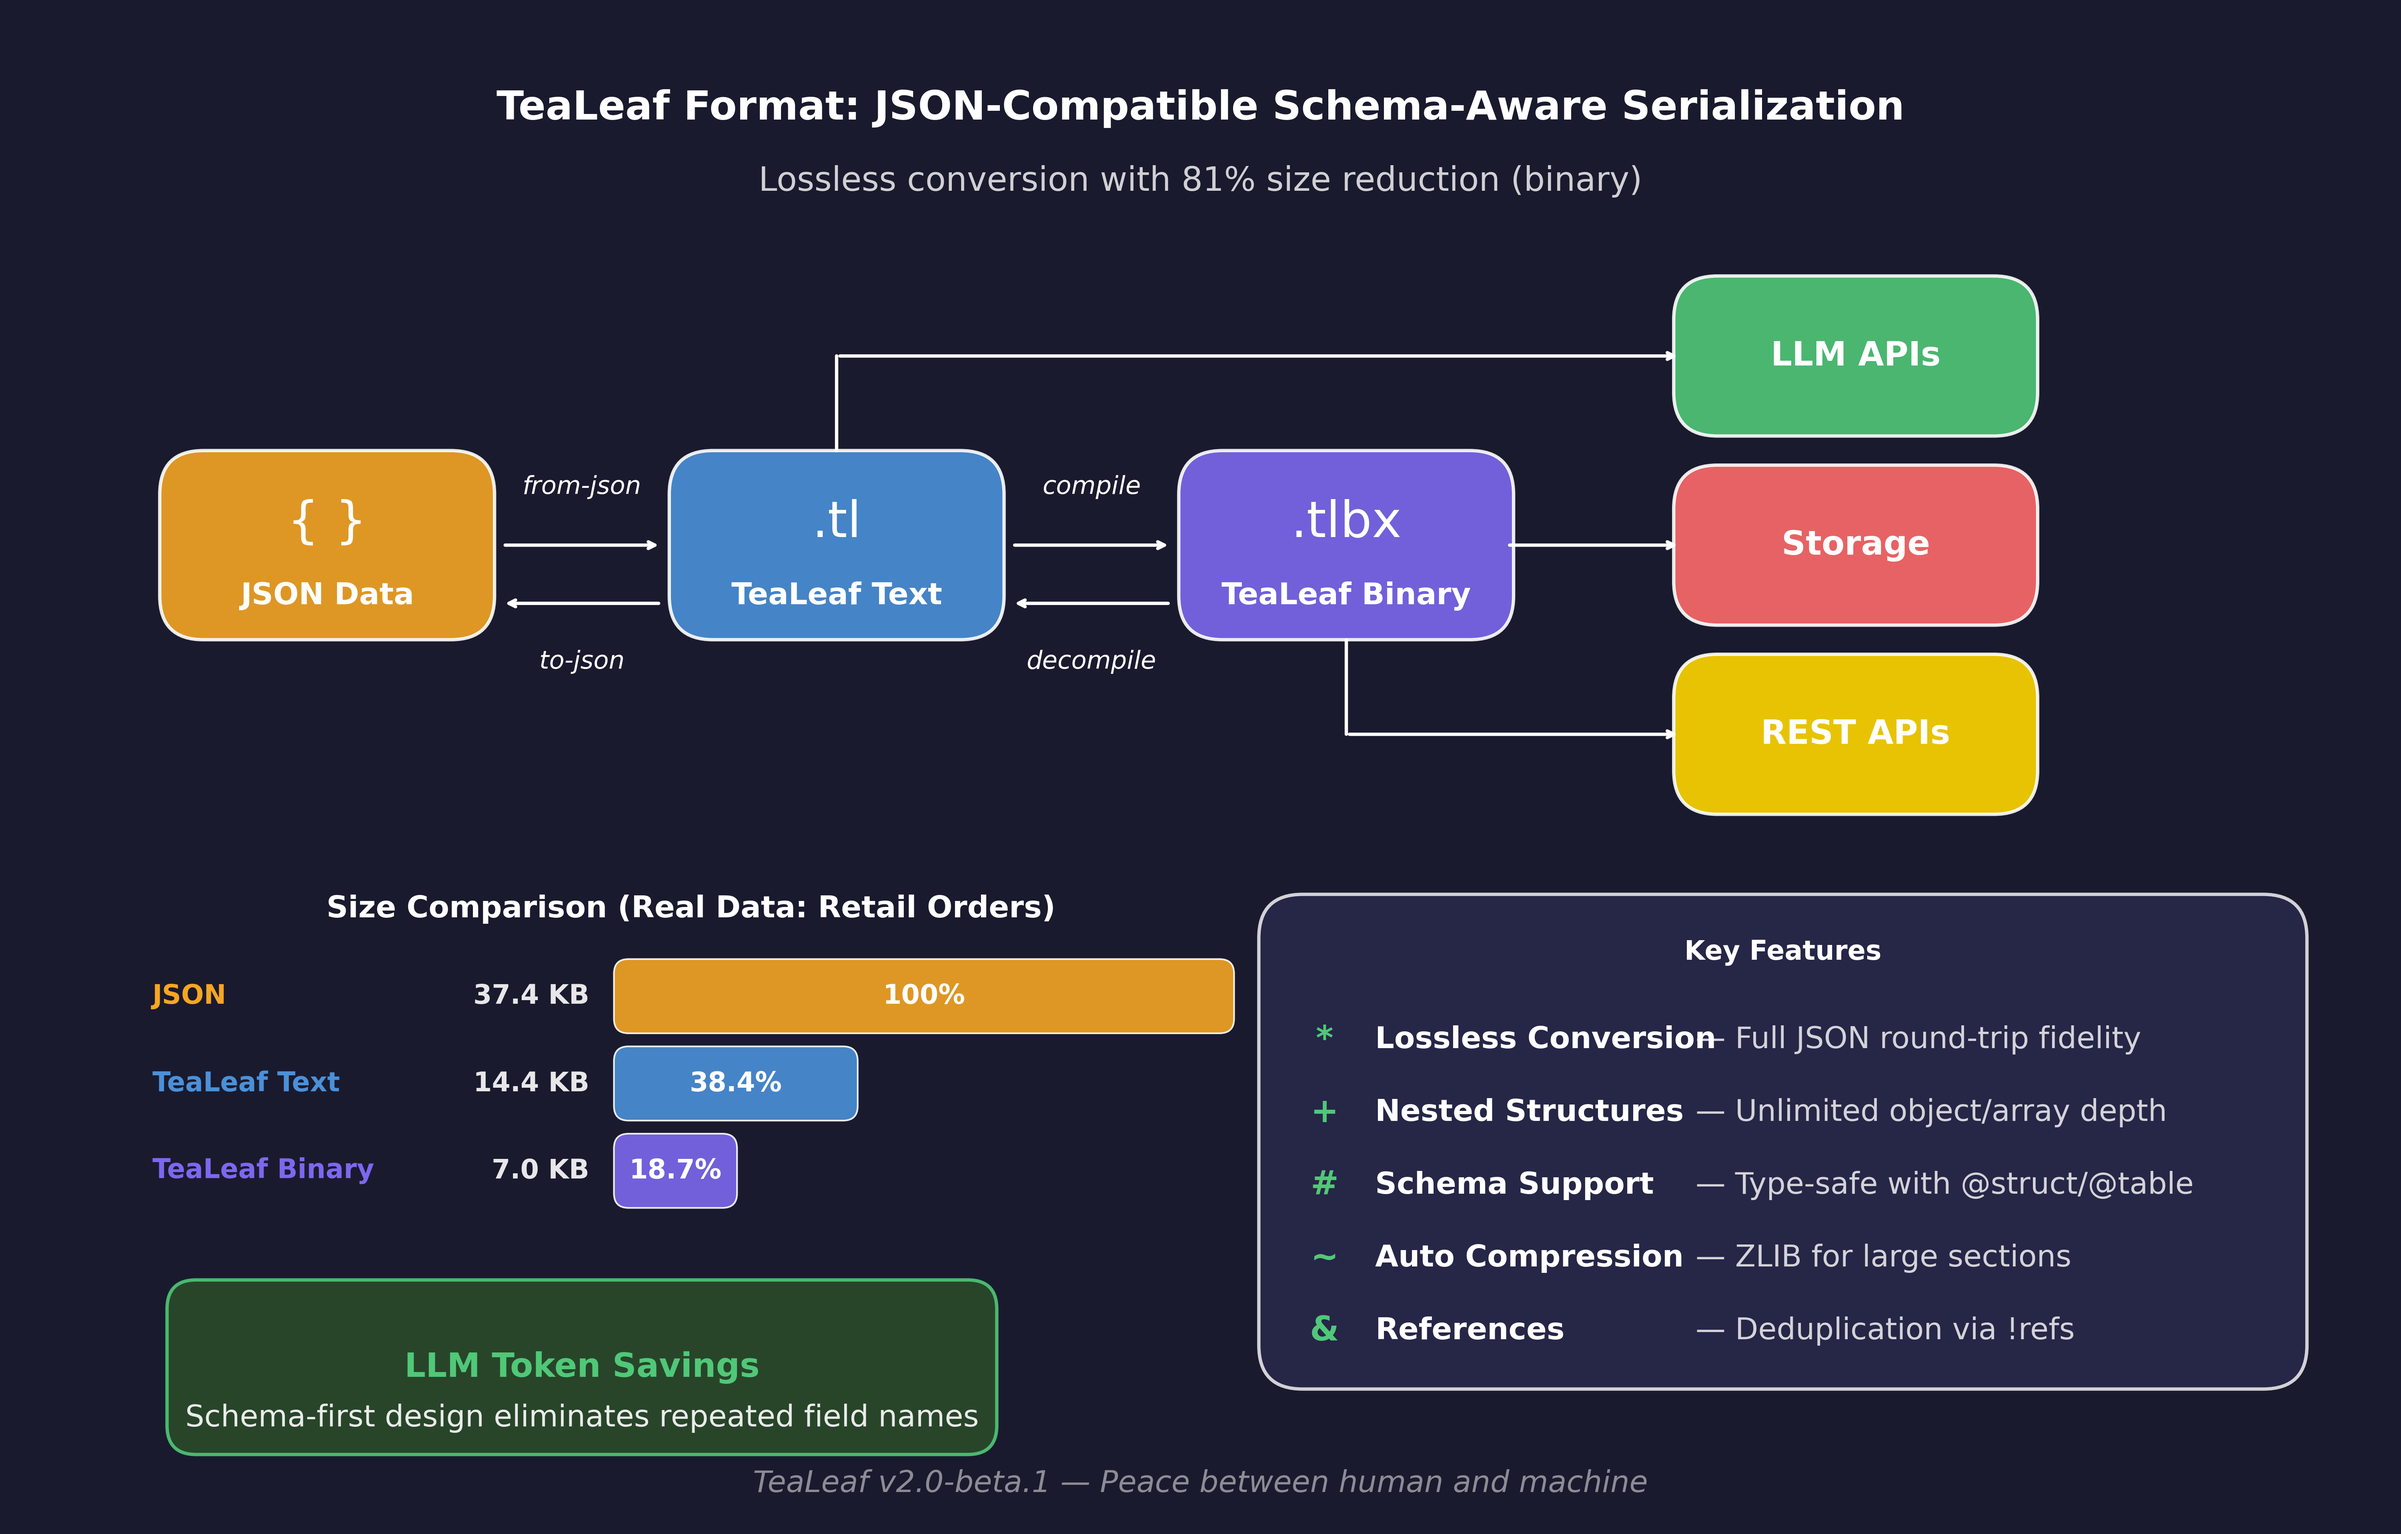
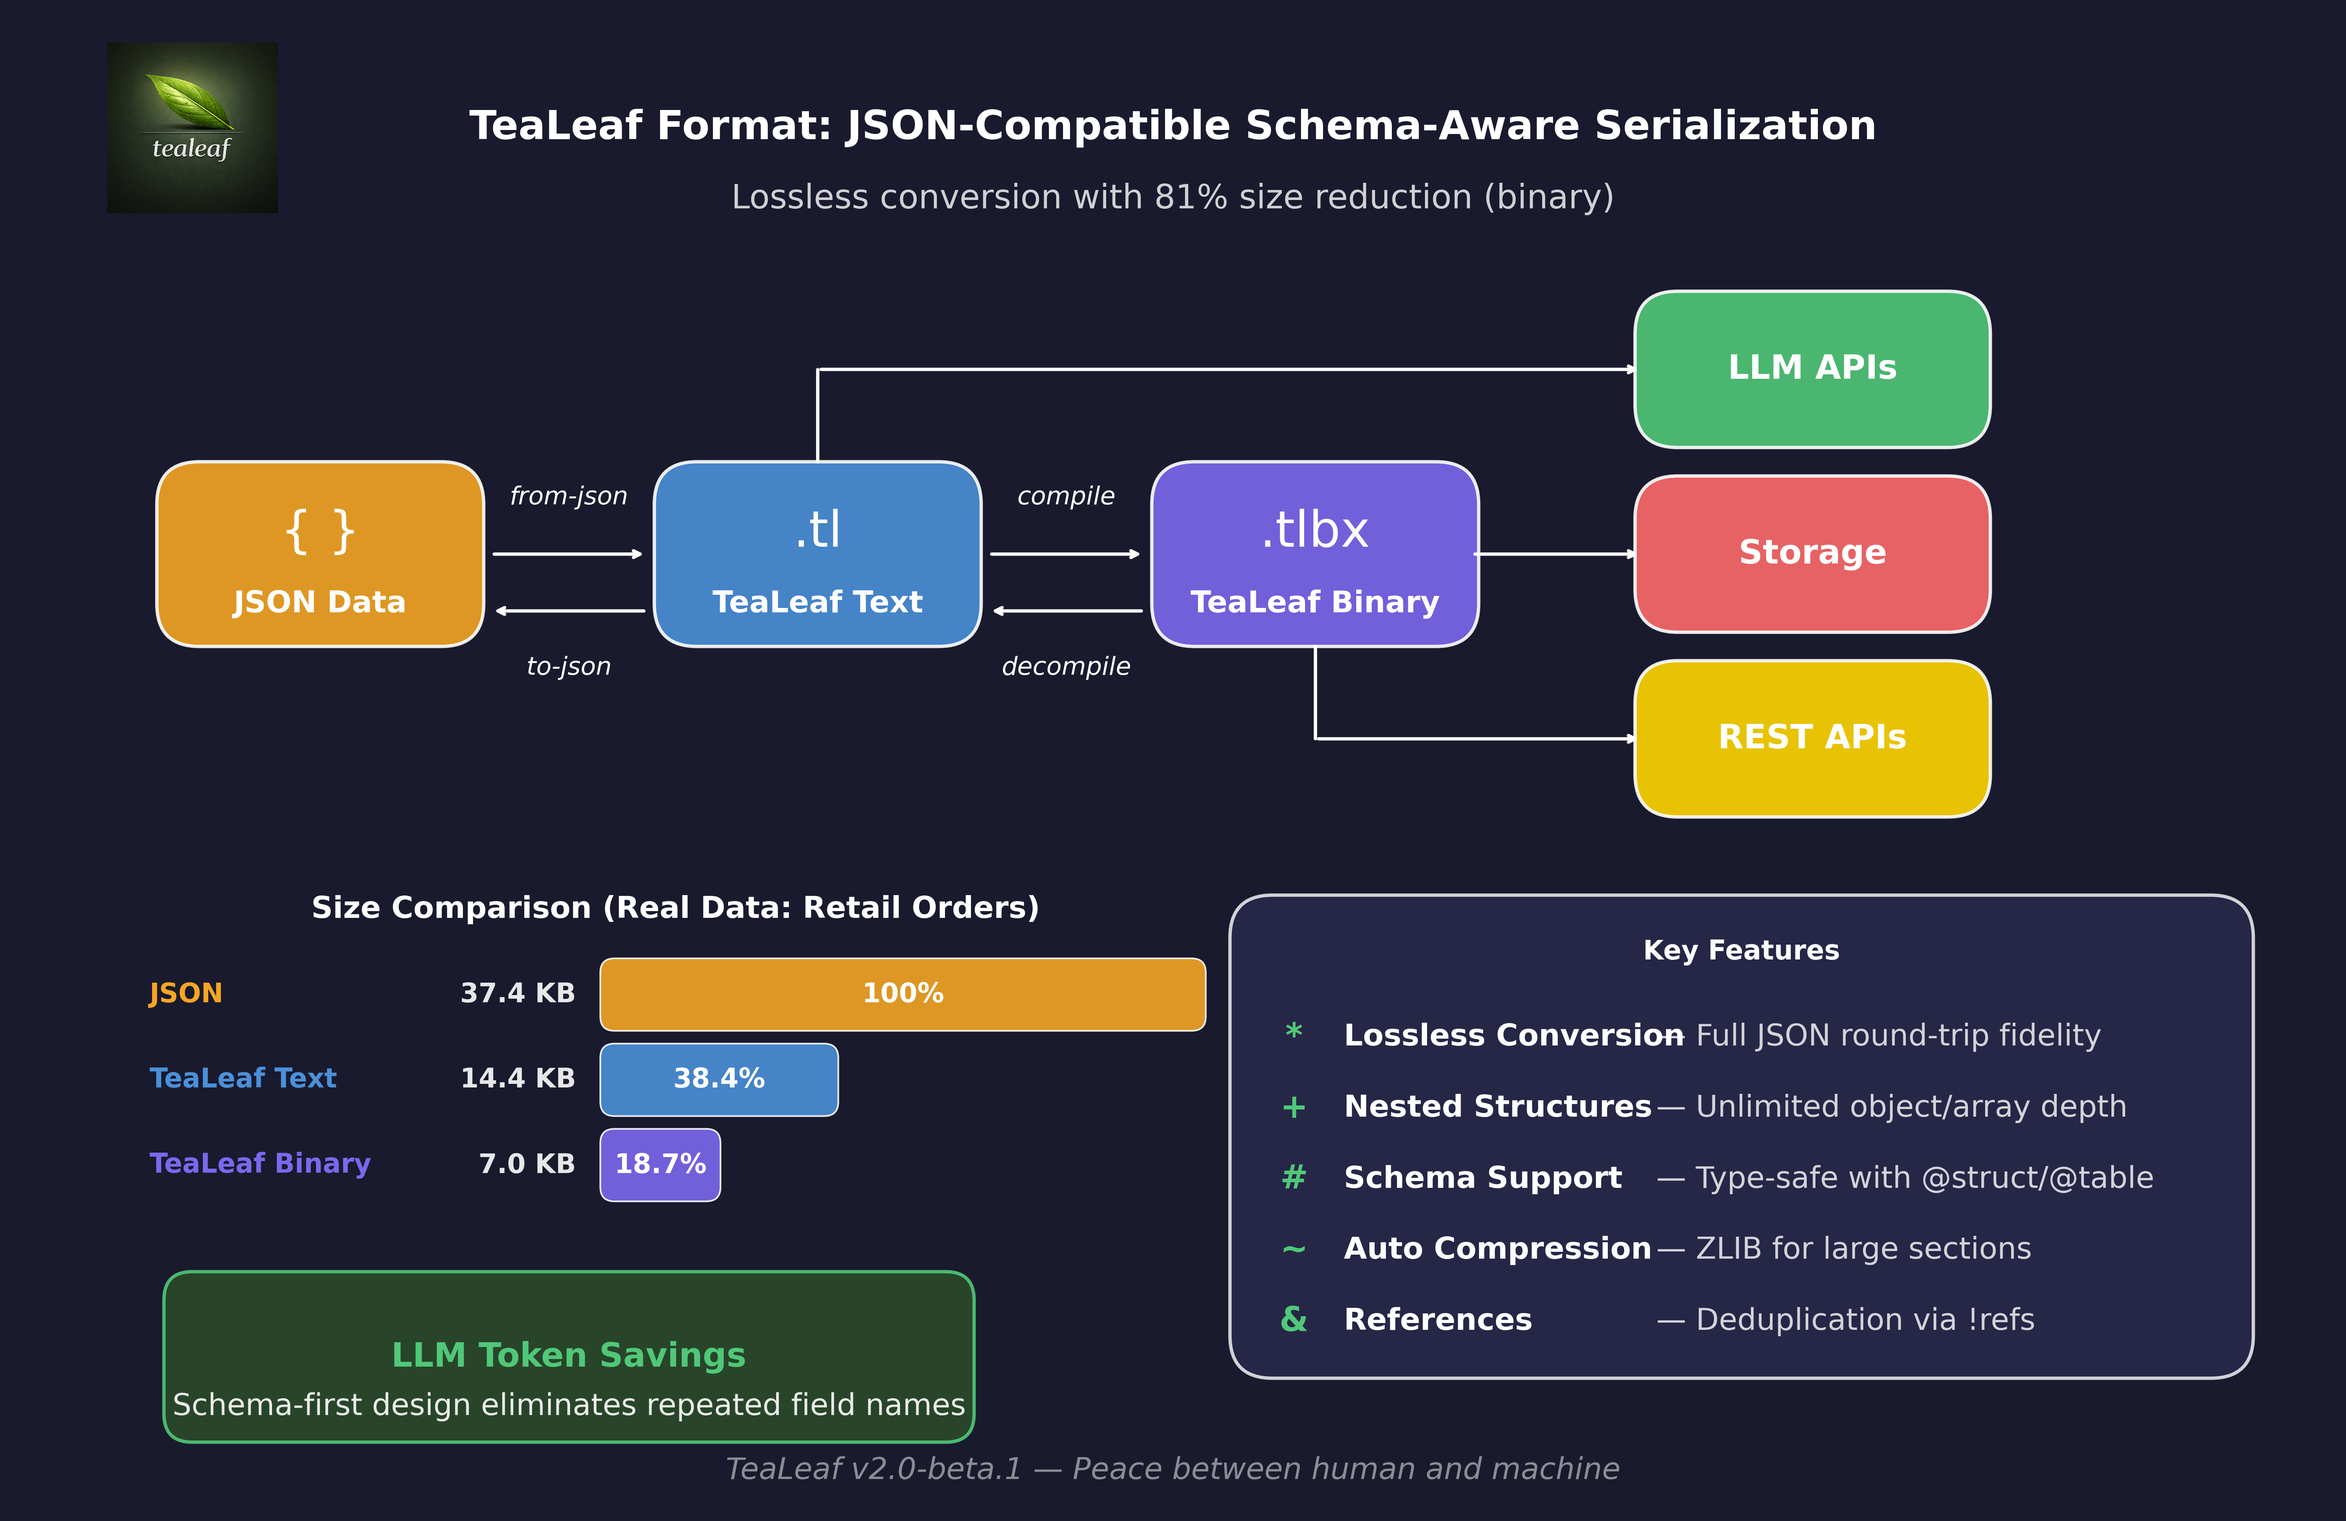
release workflow and some branding updates.

diff --git a/docs/generate_workflow_diagram.py b/docs/generate_workflow_diagram.py
@@ -6,6 +6,8 @@ Creates a PNG showing JSON → TeaLeaf conversion and distribution workflow
 import matplotlib.pyplot as plt
 import matplotlib.patches as mpatches
 from matplotlib.patches import FancyBboxPatch, FancyArrowPatch, Circle
+import matplotlib.image as mpimg
+from matplotlib.offsetbox import OffsetImage, AnnotationBbox
 import numpy as np
 import os
 
@@ -56,6 +58,14 @@ COLOR_ARROW = '#888888'     # Gray arrows
 # Background
 fig.patch.set_facecolor(COLOR_BG)
 ax.set_facecolor(COLOR_BG)
+
+# Add TeaLeaf icon to top left
+icon_path = os.path.join(os.path.dirname(__file__), '..', 'vscode-tealeaf', 'images', 'tealeaf-icon-darkbg.png')
+if os.path.exists(icon_path):
+    icon_img = mpimg.imread(icon_path)
+    imagebox = OffsetImage(icon_img, zoom=0.1)  # ~100px visible size
+    ab = AnnotationBbox(imagebox, (0.5, 9.5), frameon=False, box_alignment=(0, 0.5))
+    ax.add_artist(ab)
 
 def draw_box(ax, x, y, width, height, color, label, sublabel=None, icon=None):
     """Draw a rounded box with label"""
